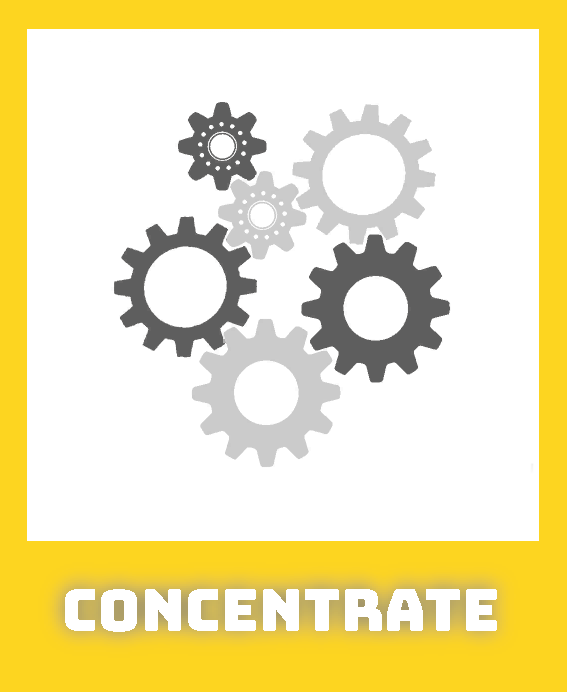
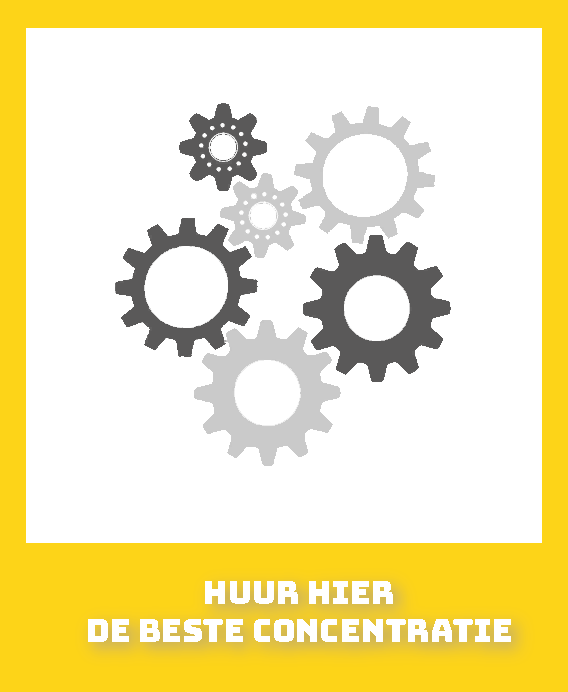
product

diff --git a/pages/bestelling.html b/pages/bestelling.html
@@ -13,7 +13,7 @@ title: Bestelling
 </div>
 
 <div class="col-6 col-lg-6"> 
-    <img src="assets/img/afb-product.png" class="productsold img-fluid" alt="Responsive image;">
+    <img src="assets/img/afb-bestelling.png" class="productsold img-fluid" alt="Responsive image;">
 </div>
 
 <div class="col-6 col-lg-6"> 
